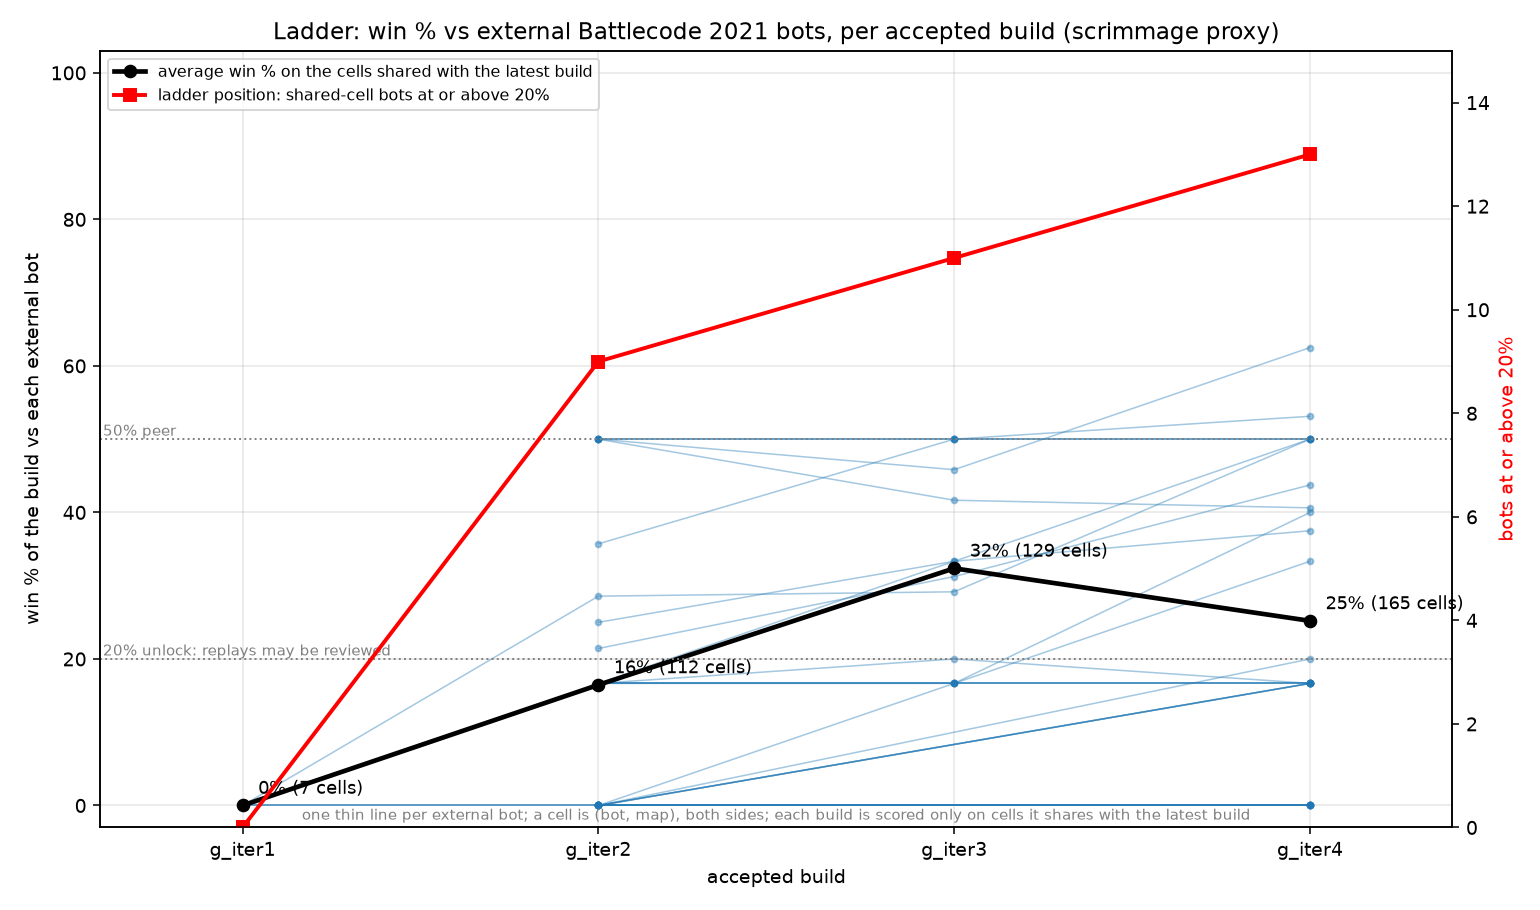
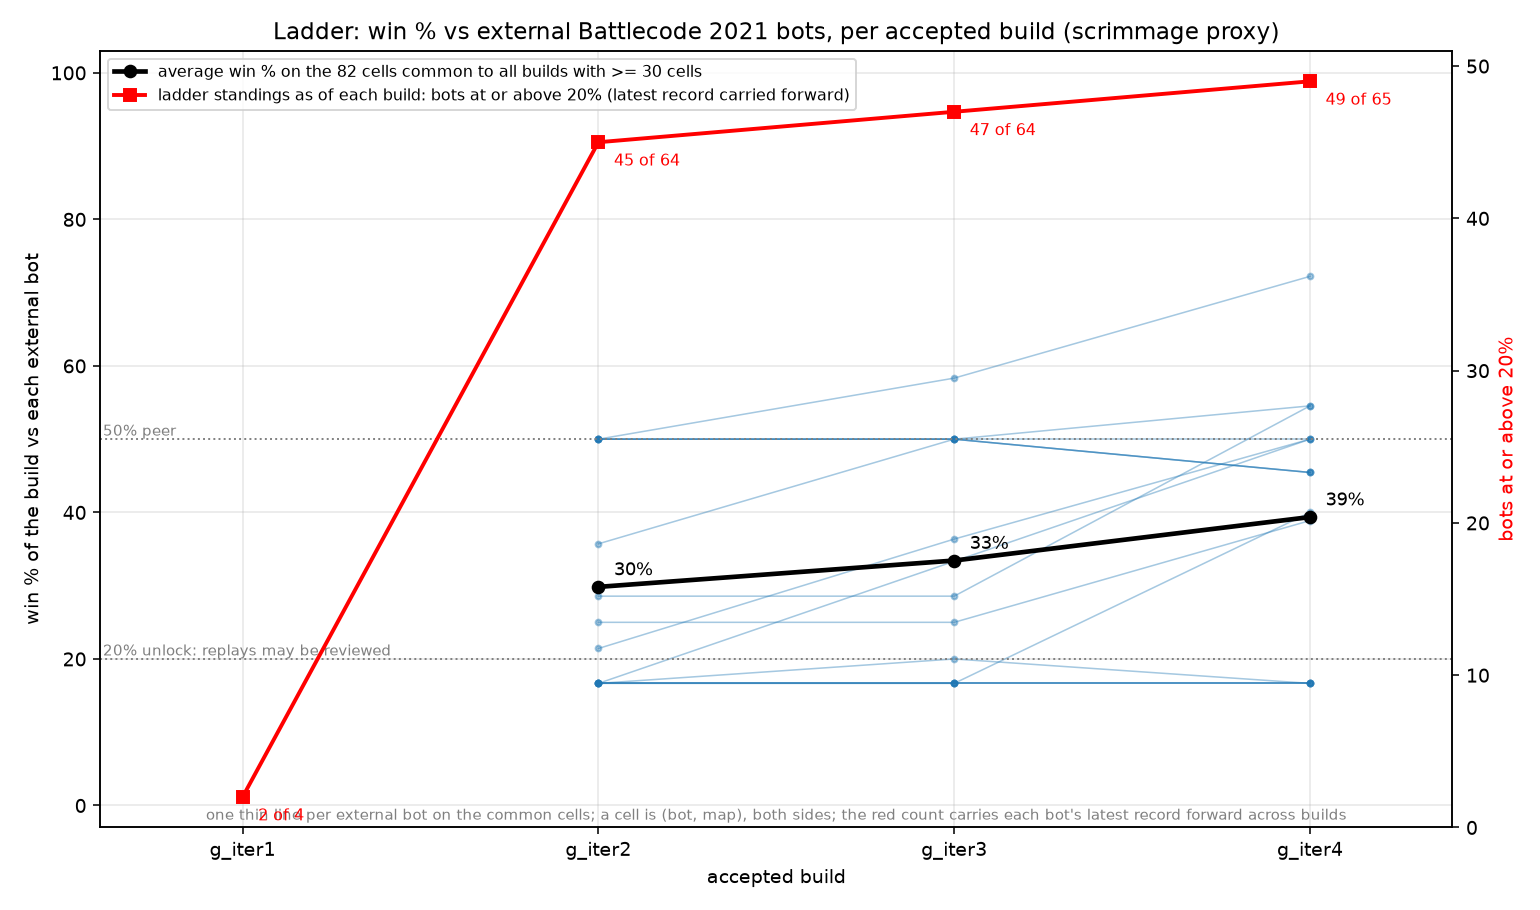
ladder.png: average on the cells common to all well-sampled builds; standings as of each build with records carried forward

diff --git a/tools/plot_history.py b/tools/plot_history.py
@@ -20,30 +20,41 @@ def plot_ladder(rows, out):
     for r in rows: k = (r["label"], r["opponent"], r["map"]); cells[k][0] += int(r["wins"]); cells[k][1] += int(r["total"])
     labels = sorted({k[0] for k in cells}, key=iter_key)
     played = {l: {(o, m) for (ll, o, m), (w, t) in cells.items() if ll == l and t > 0} for l in labels}
-    ref = labels[-1]                                         # every earlier build is compared with the latest on the cells the two share
-    common = {l: played[l] & played[ref] for l in labels}
-    def rate(l, o):
-        w = sum(cells[(l, o, m)][0] for (oo, m) in common[l] if oo == o); t = sum(cells[(l, o, m)][1] for (oo, m) in common[l] if oo == o)
+    big = [l for l in labels if len(played[l]) >= 30]              # builds with a meaningful sample
+    common = set.intersection(*(played[l] for l in big)) if big else set()   # cells every such build has played
+    def rate(l, o, cellset):
+        w = sum(cells[(l, o, m)][0] for (oo, m) in cellset if oo == o); t = sum(cells[(l, o, m)][1] for (oo, m) in cellset if oo == o)
         return 100 * w / t if t else None
-    opps = sorted({o for l in labels for (o, _) in common[l]})
+    opps = sorted({o for (o, _) in common})
     fig, ax = plt.subplots(figsize=(11, 6.5))
     for o in opps:
-        pts = [(i, rate(l, o)) for i, l in enumerate(labels) if rate(l, o) is not None]
+        pts = [(i, rate(l, o, common)) for i, l in enumerate(labels) if l in big and rate(l, o, common) is not None]
         if pts: ax.plot([p[0] for p in pts], [p[1] for p in pts], "-o", lw=0.8, ms=3, alpha=0.4, color="tab:blue")
-    avg, unlocked, ncells = [], [], []
+    avg, unlocked, nbots = [], [], []; standings = {}
     for l in labels:
-        v = [rate(l, o) for o in opps if rate(l, o) is not None]
-        avg.append(sum(v) / len(v) if v else float("nan")); unlocked.append(sum(1 for x in v if x >= 20) if v else float("nan")); ncells.append(len(common[l]))
-    ax.plot(range(len(labels)), avg, "k-o", lw=2.4, ms=6, label="average win % on the cells shared with the latest build")
-    for i, (a, n) in enumerate(zip(avg, ncells)): ax.annotate(f"{a:.0f}% ({n} cells)" if n else "no shared cells", (i, a if n else 50), xytext=(8, 6), textcoords="offset points", fontsize=9)
+        v = [rate(l, o, common) for o in opps if l in big and rate(l, o, common) is not None]
+        avg.append(sum(v) / len(v) if v else float("nan"))
+        # ladder standings as of this build: every bot's most recent record (>= 4 decided games) up to and
+        # including this build, carried forward; count those at or above 20%
+        allo = defaultdict(lambda: [0, 0])
+        for (ll, o, m), (w, t) in cells.items():
+            if ll == l: allo[o][0] += w; allo[o][1] += t
+        for o, (w, t) in allo.items():
+            if t >= 4: standings[o] = 100 * w / t
+        unlocked.append(sum(1 for r in standings.values() if r >= 20) if standings else float("nan")); nbots.append(len(standings))
+    ax.plot(range(len(labels)), avg, "k-o", lw=2.4, ms=6, label=f"average win % on the {len(common)} cells common to all builds with >= 30 cells")
+    for i, a in enumerate(avg):
+        if a == a: ax.annotate(f"{a:.0f}%", (i, a), xytext=(8, 6), textcoords="offset points", fontsize=9)
     for y, lab in [(20, "20% unlock: replays may be reviewed"), (50, "50% peer")]:
         ax.axhline(y, color="gray", ls=":", lw=1); ax.annotate(lab, (0.002, y), xycoords=("axes fraction", "data"), fontsize=7.5, color="gray", va="bottom")
-    ax2 = ax.twinx(); ax2.plot(range(len(labels)), unlocked, "r-s", lw=2, ms=6, label="ladder position: shared-cell bots at or above 20%")
+    ax2 = ax.twinx(); ax2.plot(range(len(labels)), unlocked, "r-s", lw=2, ms=6, label="ladder standings as of each build: bots at or above 20% (latest record carried forward)")
+    for i, (u, n) in enumerate(zip(unlocked, nbots)):
+        if u == u: ax2.annotate(f"{int(u)} of {n}", (i, u), xytext=(8, -12), textcoords="offset points", fontsize=8, color="r")
     ax2.set_ylabel("bots at or above 20%", color="r"); ax2.set_ylim(0, max(10, max([u for u in unlocked if u == u], default=0) + 2))
     ax.set_xticks(range(len(labels))); ax.set_xticklabels(labels); ax.set_xlim(-0.4, len(labels) - 0.6)
     ax.set_ylim(-3, 103); ax.set_ylabel("win % of the build vs each external bot"); ax.set_xlabel("accepted build")
     ax.set_title("Ladder: win % vs external Battlecode 2021 bots, per accepted build (scrimmage proxy)"); ax.grid(alpha=.3)
-    ax.text(0.5, 0.01, "one thin line per external bot; a cell is (bot, map), both sides; each build is scored only on cells it shares with the latest build", transform=ax.transAxes, ha="center", fontsize=7.5, color="gray")
+    ax.text(0.5, 0.01, "one thin line per external bot on the common cells; a cell is (bot, map), both sides; the red count carries each bot's latest record forward across builds", transform=ax.transAxes, ha="center", fontsize=7.5, color="gray")
     h1, l1 = ax.get_legend_handles_labels(); h2, l2 = ax2.get_legend_handles_labels(); ax.legend(h1 + h2, l1 + l2, loc="upper left", fontsize=8)
     fig.tight_layout(); fig.savefig(out, dpi=140); print("wrote", out)
 
